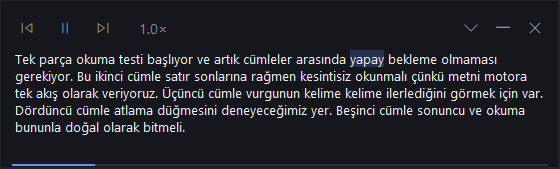
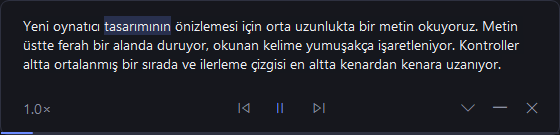
ui: player redesign (text on top with soft highlight, centered transport row, rounded chrome, edge-to-edge progress hairline, no scrollbar)

diff --git a/src/Reader.cs b/src/Reader.cs
@@ -206,8 +206,8 @@ namespace SesliOkuma
         }
     }
 
-    // Floating bar shown while reading: draggable anywhere, hideable, speed menu, expandable full text
-    // with a soft highlight that follows the spoken word.
+    // Floating player: text on top (follows the spoken word with a soft highlight), a centered
+    // transport row below, rounded chrome and an edge-to-edge progress hairline.
     public sealed class ReaderBar : Form
     {
         [System.Runtime.InteropServices.DllImport("dwmapi.dll")] static extern int DwmSetWindowAttribute(IntPtr hwnd, int attr, ref int value, int size);
@@ -217,16 +217,16 @@ namespace SesliOkuma
         readonly Reader _reader;
         readonly AppSettings _settings;
         readonly Action _rateChanged;
-        readonly FlatButton _pause = new FlatButton { IconGlyph = true, Borderless = true, Size = new Size(34, 34) };
-        readonly FlatButton _back = new FlatButton { IconGlyph = true, Borderless = true, Size = new Size(34, 34), Text = "\uE892" };
-        readonly FlatButton _skip = new FlatButton { IconGlyph = true, Borderless = true, Size = new Size(34, 34), Text = "\uE893" };
-        readonly FlatButton _speed = new FlatButton { Borderless = true, Size = new Size(52, 34) };
-        readonly FlatButton _expand = new FlatButton { IconGlyph = true, Borderless = true, Size = new Size(30, 34), Text = "\uE70E" };
-        readonly FlatButton _hide = new FlatButton { IconGlyph = true, Borderless = true, Size = new Size(30, 34), Text = "\uE921" };
-        readonly FlatButton _close = new FlatButton { IconGlyph = true, Borderless = true, Size = new Size(30, 34), Text = "\uE711" };
+        readonly FlatButton _pause = new FlatButton { IconGlyph = true, Borderless = true, Accent = true, Size = new Size(38, 34) };
+        readonly FlatButton _back = new FlatButton { IconGlyph = true, Borderless = true, Size = new Size(32, 34), Text = "\uE892" };
+        readonly FlatButton _skip = new FlatButton { IconGlyph = true, Borderless = true, Size = new Size(32, 34), Text = "\uE893" };
+        readonly FlatButton _speed = new FlatButton { Borderless = true, Size = new Size(48, 34) };
+        readonly FlatButton _expand = new FlatButton { IconGlyph = true, Borderless = true, Size = new Size(28, 34), Text = "\uE70E" };
+        readonly FlatButton _hide = new FlatButton { IconGlyph = true, Borderless = true, Size = new Size(28, 34), Text = "\uE921" };
+        readonly FlatButton _close = new FlatButton { IconGlyph = true, Borderless = true, Size = new Size(28, 34), Text = "\uE711" };
         readonly Label _text = new Label { AutoSize = false, TextAlign = ContentAlignment.MiddleLeft, BackColor = Color.Transparent, AutoEllipsis = true };
         readonly RichTextBox _full = new RichTextBox();
-        const int W = 560, BaseH = 56, FullH = 168;
+        const int W = 560, RowH = 46, TextMax = 150;
         int _hlStart = -1, _hlLen;
         string _loadedText = "";
         public event EventHandler HideRequested;
@@ -235,20 +235,12 @@ namespace SesliOkuma
         {
             _reader = reader; _settings = settings; _rateChanged = rateChanged;
             FormBorderStyle = FormBorderStyle.None; ShowInTaskbar = false; TopMost = true; StartPosition = FormStartPosition.Manual;
-            BackColor = Theme.Bg; ForeColor = Theme.Text; Font = Theme.Body; ClientSize = new Size(W, BaseH); DoubleBuffered = true;
+            BackColor = Theme.Bg; ForeColor = Theme.Text; Font = Theme.Body; ClientSize = new Size(W, RowH + 6); DoubleBuffered = true;
             Text = "SesliOkumaReaderBar";
 
-            int x = 10;
-            _back.Location = new Point(x, 11); x += 38;
-            _pause.Location = new Point(x, 11); x += 38;
-            _skip.Location = new Point(x, 11); x += 42;
-            _speed.Location = new Point(x, 11); x += 60;
-            _text.Font = Theme.Body; _text.ForeColor = Theme.Text; _text.SetBounds(x, 17, W - x - 104, 22);
-            _close.Location = new Point(W - 40, 11);
-            _hide.Location = new Point(W - 40 - 32, 11);
-            _expand.Location = new Point(W - 40 - 64, 11);
+            _text.Font = Theme.Body; _text.ForeColor = Theme.Text;
             _full.ReadOnly = true; _full.BorderStyle = BorderStyle.None; _full.BackColor = Theme.Bg; _full.ForeColor = Theme.Text;
-            _full.Font = Theme.Body; _full.WordWrap = true; _full.ScrollBars = RichTextBoxScrollBars.Vertical; _full.TabStop = false;
+            _full.Font = new Font("Segoe UI", 10.5f); _full.WordWrap = true; _full.ScrollBars = RichTextBoxScrollBars.None; _full.TabStop = false;
             _full.Visible = false; _full.Cursor = Cursors.Default;
             Controls.AddRange(new Control[] { _back, _pause, _skip, _speed, _text, _expand, _hide, _close, _full });
 
@@ -274,13 +266,13 @@ namespace SesliOkuma
             int[] steps = { -4, -2, 0, 2, 4, 6 };
             foreach (int v in steps)
             {
-                string label = (1.0 + v * 0.1).ToString("0.0", System.Globalization.CultureInfo.InvariantCulture) + "×";
-                if (v == 0) label += "  ·  " + L.T("Normal");
+                string label = (1.0 + v * 0.1).ToString("0.0", System.Globalization.CultureInfo.InvariantCulture) + "\u00d7";
+                if (v == 0) label += "  \u00b7  " + L.T("Normal");
                 var item = new ToolStripMenuItem(label) { Tag = v, Checked = _settings.Rate == v };
                 item.Click += delegate { _settings.Rate = (int)item.Tag; _settings.Save(); if (_rateChanged != null) _rateChanged(); _reader.Restart(); Sync(); };
                 menu.Items.Add(item);
             }
-            menu.Show(_speed, new Point(0, _speed.Height + 4));
+            menu.Show(_speed, new Point(0, -6 * 32));
         }
 
         protected override bool ShowWithoutActivation { get { return true; } }
@@ -320,13 +312,14 @@ namespace SesliOkuma
             if (IsDisposed) return;
             _pause.Text = _reader.Paused ? "\uE768" : "\uE769";
             Tips.Set(_pause, _reader.Paused ? L.T("Resume") : L.T("Pause"));
-            _speed.Text = (1.0 + _settings.Rate * 0.1).ToString("0.0", System.Globalization.CultureInfo.InvariantCulture) + "×";
+            _speed.Text = (1.0 + _settings.Rate * 0.1).ToString("0.0", System.Globalization.CultureInfo.InvariantCulture) + "\u00d7";
             bool exp = _settings.BarExpanded;
             _expand.Text = exp ? "\uE70D" : "\uE70E";
             Tips.Set(_expand, L.T(exp ? "CollapseTip" : "ExpandTip"));
             _text.Visible = !exp;
             _full.Visible = exp;
-            int h = BaseH;
+
+            int h;
             if (exp)
             {
                 if (_loadedText != _reader.FullText)
@@ -337,16 +330,37 @@ namespace SesliOkuma
                 }
                 int th;
                 using (var g = CreateGraphics())
-                    th = Math.Min(FullH, Math.Max(28, TextRenderer.MeasureText(g, _loadedText, Theme.Body, new Size(W - 28, 2000), TextFormatFlags.WordBreak).Height + 12));
-                _full.SetBounds(14, BaseH - 6, W - 28, th);
-                h = BaseH + th + 6;
+                    th = Math.Min(TextMax, Math.Max(30, TextRenderer.MeasureText(g, _loadedText, _full.Font, new Size(W - 44, 2000), TextFormatFlags.WordBreak).Height + 10));
+                _full.SetBounds(22, 16, W - 44, th);
+                h = 16 + th + 6 + RowH;
+                int rowY = h - RowH + 2;
+                int cx = W / 2;
+                _back.Location = new Point(cx - 16 - 4 - 32, rowY);
+                _pause.Location = new Point(cx - 19, rowY);
+                _skip.Location = new Point(cx + 19 + 4, rowY);
+                _speed.Location = new Point(14, rowY);
+                _expand.Location = new Point(W - 14 - 28 - 4 - 28 - 4 - 28, rowY);
+                _hide.Location = new Point(W - 14 - 28 - 4 - 28, rowY);
+                _close.Location = new Point(W - 14 - 28, rowY);
+            }
+            else
+            {
+                h = RowH + 6;
+                int rowY = 6;
+                _back.Location = new Point(10, rowY);
+                _pause.Location = new Point(46, rowY);
+                _skip.Location = new Point(88, rowY);
+                _speed.Location = new Point(124, rowY);
+                _text.SetBounds(180, rowY + 6, W - 180 - 104, 22);
+                _text.Text = _reader.CurrentSentence;
+                _expand.Location = new Point(W - 14 - 28 - 4 - 28 - 4 - 28, rowY);
+                _hide.Location = new Point(W - 14 - 28 - 4 - 28, rowY);
+                _close.Location = new Point(W - 14 - 28, rowY);
             }
             if (ClientSize.Height != h) ClientSize = new Size(W, h);
-            if (!exp) _text.Text = _reader.CurrentSentence;
             Invalidate();
         }
 
-        // Soft highlight of the word being spoken; also keeps the collapsed label and progress fresh.
         void SyncHighlight()
         {
             if (IsDisposed || !_reader.Active) return;
@@ -373,7 +387,7 @@ namespace SesliOkuma
                 }
             }
             else if (!_settings.BarExpanded) _text.Text = _reader.CurrentSentence;
-            Invalidate(new Rectangle(0, Height - 6, Width, 6));
+            Invalidate(new Rectangle(0, Height - 4, Width, 4));
         }
 
         void Drag(object s, MouseEventArgs e)
@@ -387,10 +401,11 @@ namespace SesliOkuma
         {
             base.OnPaint(e);
             Theme.Prepare(e.Graphics);
-            using (var pen = new Pen(Theme.Border)) e.Graphics.DrawRectangle(pen, 0, 0, Width - 1, Height - 1);
+            using (var path = Theme.RoundRect(new RectangleF(0.5f, 0.5f, Width - 1, Height - 1), 8))
+            using (var pen = new Pen(Theme.Border)) e.Graphics.DrawPath(pen, path);
             float frac = (float)_reader.Fraction;
-            using (var b = new SolidBrush(Theme.Track)) e.Graphics.FillRectangle(b, 12, Height - 5, Width - 24, 2);
-            using (var b = new SolidBrush(Theme.Accent)) e.Graphics.FillRectangle(b, 12, Height - 5, (Width - 24) * frac, 2);
+            using (var b = new SolidBrush(Theme.Track)) e.Graphics.FillRectangle(b, 1, Height - 3, Width - 2, 2);
+            using (var b = new SolidBrush(Theme.Accent)) e.Graphics.FillRectangle(b, 1, Height - 3, (Width - 2) * frac, 2);
         }
     }
 }
